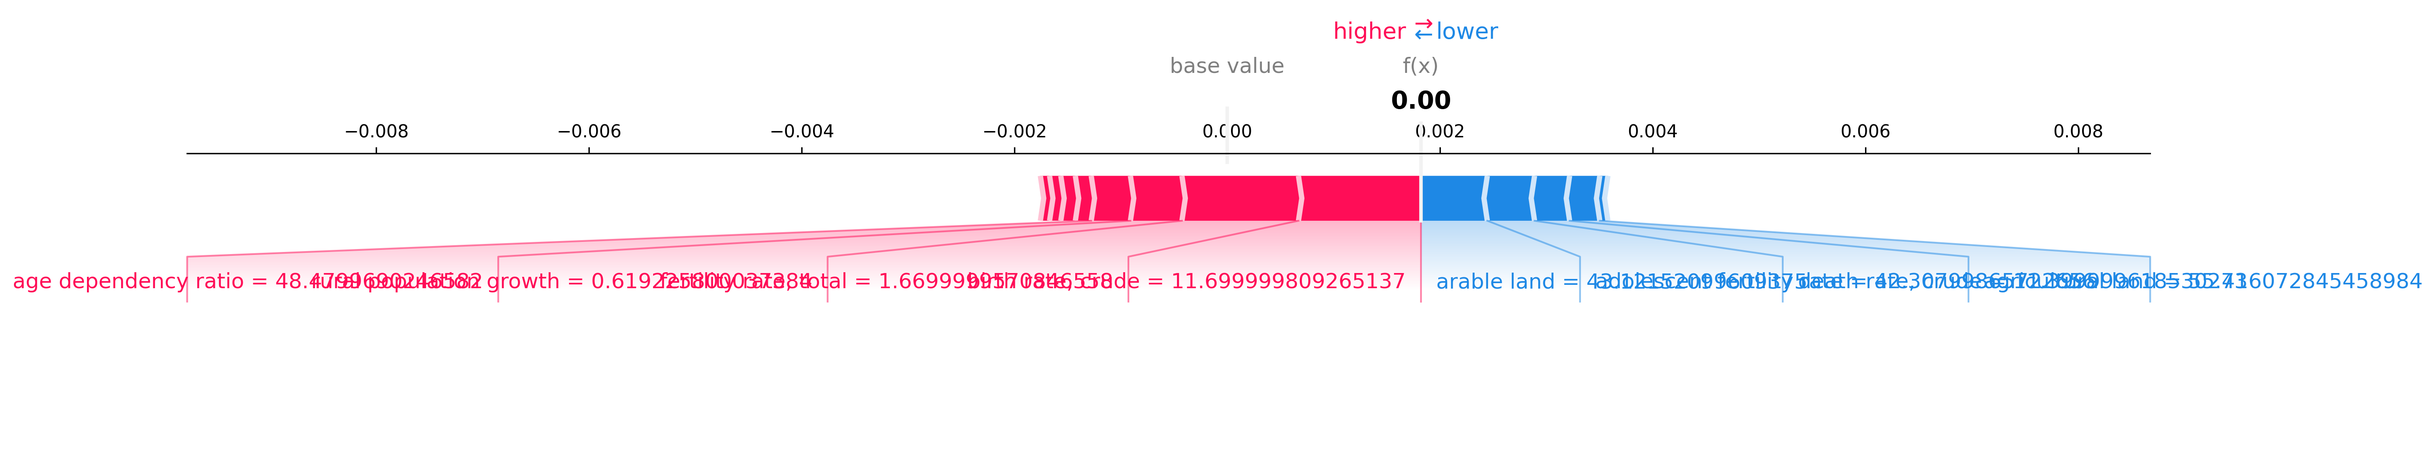
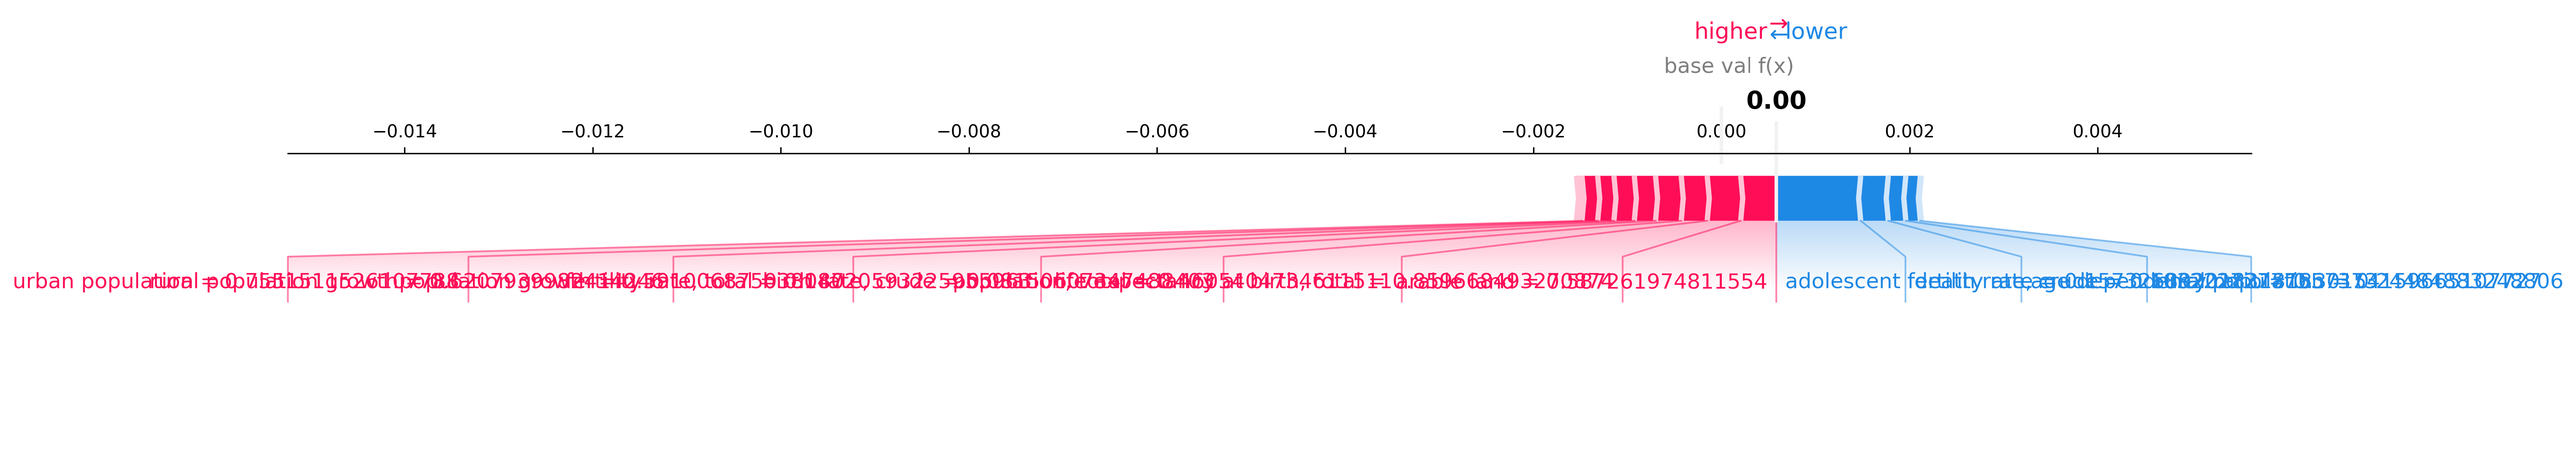
[WIP]: summary plot shap

diff --git a/src/feature_explainer/explain.py b/src/feature_explainer/explain.py
@@ -6,39 +6,65 @@ import torch
 from src.utils.save_model import get_model
 
 from src.local_model.model import BaseLSTM
-from src.preprocessors.multiple_states_preprocessing import StatesDataLoader
+from src.preprocessors.multiple_states_preprocessing import StateDataLoader
+from src.preprocessors.data_transformer import DataTransformer
 
 from src.utils.log import setup_logging
+
+# Filters about rng seed warning - yet the shap does not acceps 'rng' argument.
+import warnings
+
+warnings.filterwarnings("ignore", category=FutureWarning, module="shap")
+
 
 # Setup logging
 setup_logging()
 
 
-# Get model
-model: BaseLSTM = get_model(name="test_base_model.pkl")
+# Get model and transformer
+model: BaseLSTM = get_model(name="BaseLSTM.pkl")
+transformer: DataTransformer = get_model("BaseLSTM_transformer.pkl")
 # model.to(model.device)
 
 # Get input data
-loader = StatesDataLoader()
+INPUT_STATE_DATA: str = "Czechia"
+loader = StateDataLoader(state=INPUT_STATE_DATA)
 
-states_dict = loader.load_states(states=["Czechia"])
+states_data = loader.load_data()
 
-train_dict, test_dict = loader.split_data(
-    states_dict=states_dict,
-    sequence_len=model.hyperparameters.sequence_length,
+train_df, test_df = loader.split_data(
+    data=states_data,
     split_rate=0.8,
 )
 
+LAST_YEAR: int = loader.get_last_year(train_df)
+TARGET_YEAR: int = loader.get_last_year(test_df)
+
 print(f"Sequence length: {model.hyperparameters.sequence_length}")
 
-# Create sequences
-input_sequences, _ = loader.create_train_sequences(
-    states_data=train_dict,
-    sequence_len=model.hyperparameters.sequence_length,
-    features=model.FEATURES,
-)
+# Scale data
+scaled_state_df = transformer.scale_data(data=states_data, columns=model.FEATURES)
 
+
+# Create sequences
+def create_sequences() -> torch.Tensor:
+
+    input_sequences = transformer.create_sequences(
+        input_data=scaled_state_df,
+        columns=model.FEATURES,
+        sequence_len=model.hyperparameters.sequence_length,
+    )
+
+    # Save input sequences
+    # Extend instead of append to flatten
+    return input_sequences
+
+
+# Setup sequences
+input_sequences = create_sequences()
 input_sequences.requires_grad = True
+
+print(f"Nnmber of input sequences: {len(input_sequences)}")
 
 
 # Set training batches as input_x
@@ -49,7 +75,8 @@ model.lstm.train()
 model.to(device=model.device)
 input_x = input_sequences.to(device=model.device)
 
-print(f"INPUT X SHAPE = {input_x.shape}")
+print("\n----- Shapes".ljust(100, "-"))
+print(f"input_X shape: {input_x.shape}")
 
 # Compute shap values
 torch.backends.cudnn.enabled = False
@@ -58,7 +85,7 @@ explainer = shap.GradientExplainer(model, input_x)
 # Compute SHAP values
 shap_values = explainer.shap_values(input_x)
 torch.backends.cudnn.enabled = True
-print(f"SHAP_VALUES[0] FROM INPUT X SHAPE = {shap_values[0].shape}")
+print(f"shap_values[0] (from input_X) shape: {shap_values[0].shape}")
 
 
 # Aggregate SHAP values
@@ -90,11 +117,12 @@ plt.xlabel("Mean |SHAP Value| (Feature Importance)")
 plt.title("Overall Feature Importance")
 # plt.xticks(rotation=45)
 plt.tight_layout()
-plt.savefig("test_explanation_fig.png")
+plt.savefig("shap_explanation_fig.png")
 
 
-## FORCE PLOT
+#### FORCE PLOT #####
 # shap.initjs() # This is for interactive vizualizations
+
 
 # Choose one sample (e.g., first sample and first time step)
 sample_idx = 0
@@ -105,75 +133,93 @@ shap_vals_single = shap_values[0][sample_idx, time_step]
 input_single = input_x[sample_idx, time_step].detach().cpu().numpy()
 
 
-# Plot the force plot
-plot = shap.force_plot(
-    base_value=0,  # If your model has no baseline, 0 is fine
-    shap_values=shap_vals_single,
-    features=input_single,
-    feature_names=feature_names,
-    matplotlib=True,
-    show=False,
-)
+def force_plot(base_value: int = 0):
+    print("Force plot...")
+    # Plot the force plot
+    plot = shap.force_plot(
+        base_value=0,  # If your model has no baseline, 0 is fine
+        shap_values=shap_vals_single,
+        features=input_single,
+        feature_names=feature_names,
+        matplotlib=True,
+        show=False,
+    )
 
-# Save the force plot to a file (using matplotlib)
-plt.savefig("shap_force_plot.png", format="png", dpi=300, bbox_inches="tight")
-
-
-# SUMMARY PLOT
-# shap_vals = shap_values[0]  # shape: (batch, seq_len, features)
-# cls = 0
-# idx = 0
+    # Save the force plot to a file (using matplotlib)
+    plt.savefig("shap_force_plot.png", format="png", dpi=300, bbox_inches="tight")
 
 
-# shap_vals = shap_values[0]  # shape: (batch_size, sequence_len, input_features_num)
+#### SUMMARY PLOT #####
+def summary_plot(cls: int = 0, idx: int = 0):
 
-# shap_vals_avg = shap_vals.mean(axis=1)
+    print("Summary plot...")
 
-# # Convert input data to numpy format (for SHAP plotting)
+    input_np = input_x.detach().cpu().numpy()
+    input_x_single = input_np[
+        idx, :, :
+    ]  # Shape: (12, 13) - Take the first batch (12 time steps, 13 features)
+
+    # Flatten for plotting
+    input_x_single_flat = input_x_single.reshape(
+        -1, input_x_single.shape[-1]
+    )  # Shape: (12 * 13, 13)
+
+    # Similarly, flatten SHAP values for the same batch
+    shap_vals_single = shap_values[cls][
+        :, idx, :
+    ]  # Shape: (12, 13) - Take the first batch, all time steps
+    shap_vals_single_flat = shap_vals_single.reshape(
+        -1, shap_vals_single.shape[-1]
+    )  # Shape: (12 * 13, 13)
+
+    # Plot the summary plot
+    shap.summary_plot(
+        shap_vals_single_flat,  # Flattened SHAP values for the first batch
+        input_x_single_flat,  # Flattened input features for the first batch
+        feature_names=model.FEATURES,  # List of feature names
+        show=False,
+    )
+
+    # Step 3: Save the plot
+    # plt.tight_layout()
+    plt.savefig("shap_summary_plot.png", format="png", dpi=300, bbox_inches="tight")
 
 
-# # print(shap_values[cls][:, idx, :].shape)
-# # print(input_x[:, idx, :].shape)
-# shap.summary_plot(
-#     # shap_values[cls][:, idx, :],
-#     # input_x[idx, :, :],
-#     shap_vals_avg,
-#     input_np,
-#     feature_names=model.FEATURES,
-#     show=False,
-# )  # Feature names (list of feature names))
+### WATEFALL PLOT #####
+def waterfall_plot(idx: int = 0):
+    print("Waterfall plot...")
+    shap_values_for_instance = shap_vals_single
+
+    input_np = input_x.detach().cpu().numpy()
+    input_x_single = input_np[
+        idx, :, :
+    ]  # Shape: (12, 13) - Take the first batch (12 time steps, 13 features)
+
+    # We need the input features for the instance
+    input_features_for_instance = input_x_single[idx, :]
+
+    print(input_x[idx : idx + 1].shape)
+
+    # Create the waterfall plot
+    shap.waterfall_plot(
+        shap.Explanation(
+            values=shap_values_for_instance,  # SHAP values for the instance
+            base_values=model.shap_predict(
+                input_x[idx : idx + 1]
+            ),  # The base value for the model (e.g., the mean prediction)
+            data=input_features_for_instance,  # The input features
+            feature_names=model.FEATURES,  # Feature names
+        )
+    )
+
+    # Save the waterfall plot
+    plt.tight_layout()
+    plt.savefig("shap_waterfall_plot.png", format="png", dpi=300, bbox_inches="tight")
 
 
-# Assuming you want to work with the first batch
-input_np = input_x.detach().cpu().numpy()
-input_x_single = input_np[
-    0, :, :
-]  # Shape: (12, 13) - Take the first batch (12 time steps, 13 features)
-
-# Flatten for plotting
-input_x_single_flat = input_x_single.reshape(
-    -1, input_x_single.shape[-1]
-)  # Shape: (12 * 13, 13)
-
-# Similarly, flatten SHAP values for the same batch
-shap_vals_single = shap_values[0][
-    :, 0, :
-]  # Shape: (12, 13) - Take the first batch, all time steps
-shap_vals_single_flat = shap_vals_single.reshape(
-    -1, shap_vals_single.shape[-1]
-)  # Shape: (12 * 13, 13)
-
-# Plot the summary plot
-shap.summary_plot(
-    shap_vals_single_flat,  # Flattened SHAP values for the first batch
-    input_x_single_flat,  # Flattened input features for the first batch
-    feature_names=model.FEATURES,  # List of feature names
-    show=False,
-)
-
-# Save the p
-print("Here")
-
-# Step 3: Save the plot
-# plt.tight_layout()
-plt.savefig("shap_summary_plot.png", format="png", dpi=300, bbox_inches="tight")
+if __name__ == "__main__":
+    print("Creating plots...")
+    force_plot()
+    summary_plot()
+    waterfall_plot()
+    print("Done!")

diff --git a/src/local_model/model.py b/src/local_model/model.py
@@ -255,6 +255,13 @@ class BaseLSTM(CustomModelBase):
 
         return training_stats
 
+    def shap_predict(self, input_tensor: pd.DataFrame) -> torch.Tensor:
+        # Single prediction for shap
+        with torch.no_grad():
+            pred = self(input_tensor)
+
+        return pred
+
     # TODO:
     # Rewrite this for prediction -> input (scaled data - tensor?) -> output (scaled data -> tensor?)
     # Make prediction method in pipeline
@@ -290,7 +297,6 @@ class BaseLSTM(CustomModelBase):
         logger.debug(f"Input sequence: {input_data.shape}")
 
         # Move input to the appropriate device
-
         input_sequence = torch.tensor(data=input_data.values, dtype=torch.float32)
 
         input_sequence.to(self.device)
@@ -460,6 +466,7 @@ def main(save_plots: bool = True, to_save_model: bool = False, epochs: int = 50)
 
     if to_save_model:
         save_model(name=f"BaseLSTM.pkl", model=rnn)
+        save_model(name=f"BaseLSTM_transformer.pkl", model=transformer)
 
 
 if __name__ == "__main__":

diff --git a/src/preprocessors/data_transformer.py b/src/preprocessors/data_transformer.py
@@ -292,7 +292,7 @@ class DataTransformer:
                 )
             )
 
-        return input_sequences
+        return torch.stack(input_sequences)
 
     def create_input_batches(
         self, input_sequences: torch.Tensor, batch_size: int
